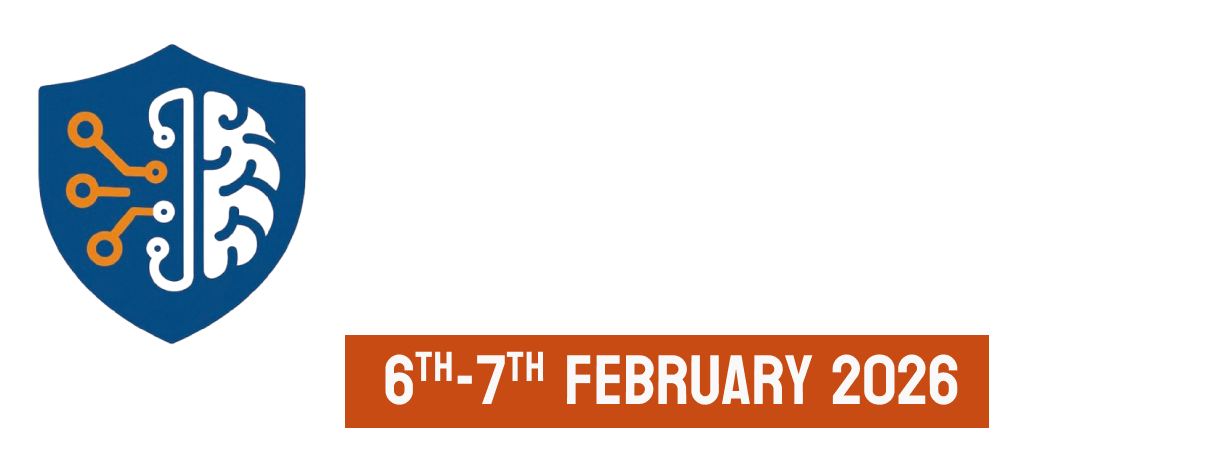
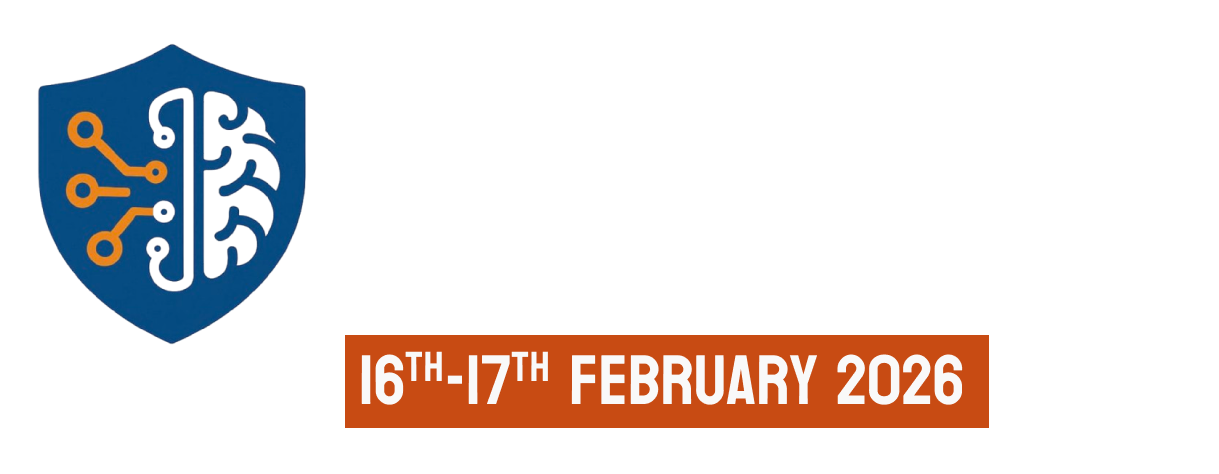
update dates

Changed region(s): [[0.2806, 0.7384, 0.8105, 0.8565]]

diff --git a/components/About.tsx b/components/About.tsx
@@ -160,7 +160,7 @@ const About = () => {
                       Call for Paper
                     </span>
                     <span className="text-gray-600 text-xs sm:text-sm font-medium whitespace-nowrap">
-                      20 September, 2025
+                      September 9, 2025
                     </span>
                   </div>
                 </div>
@@ -187,7 +187,7 @@ const About = () => {
                       Submission
                     </span>
                     <span className="text-gray-600 text-xs sm:text-sm font-medium whitespace-nowrap">
-                      25 December, 2025
+                      November 15, 2025
                     </span>
                   </div>
                 </div>
@@ -214,7 +214,7 @@ const About = () => {
                       Acceptance
                     </span>
                     <span className="text-gray-600 text-xs sm:text-sm font-medium whitespace-nowrap">
-                      5 January, 2026
+                      December 15. 2025
                     </span>
                   </div>
                 </div>
@@ -238,10 +238,10 @@ const About = () => {
                   </div>
                   <div className="flex flex-col items-start">
                     <span className="text-gray-800 text-sm sm:text-base font-semibold">
-                      Registration
+                      Registration End
                     </span>
                     <span className="text-gray-600 text-xs sm:text-sm font-medium whitespace-nowrap">
-                      20 January, 2026
+                      December 25, 2025
                     </span>
                   </div>
                 </div>
